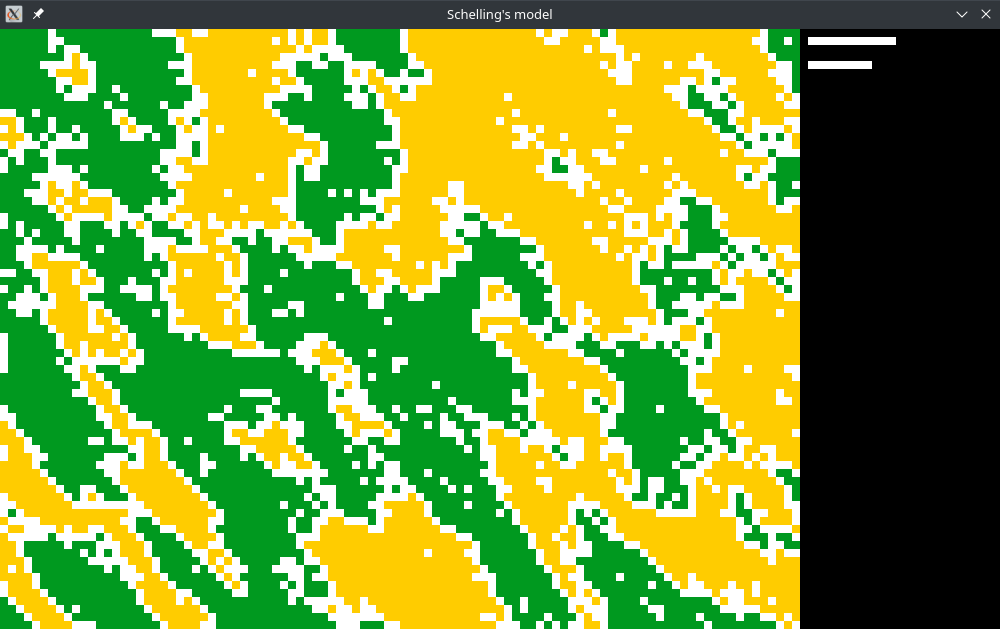
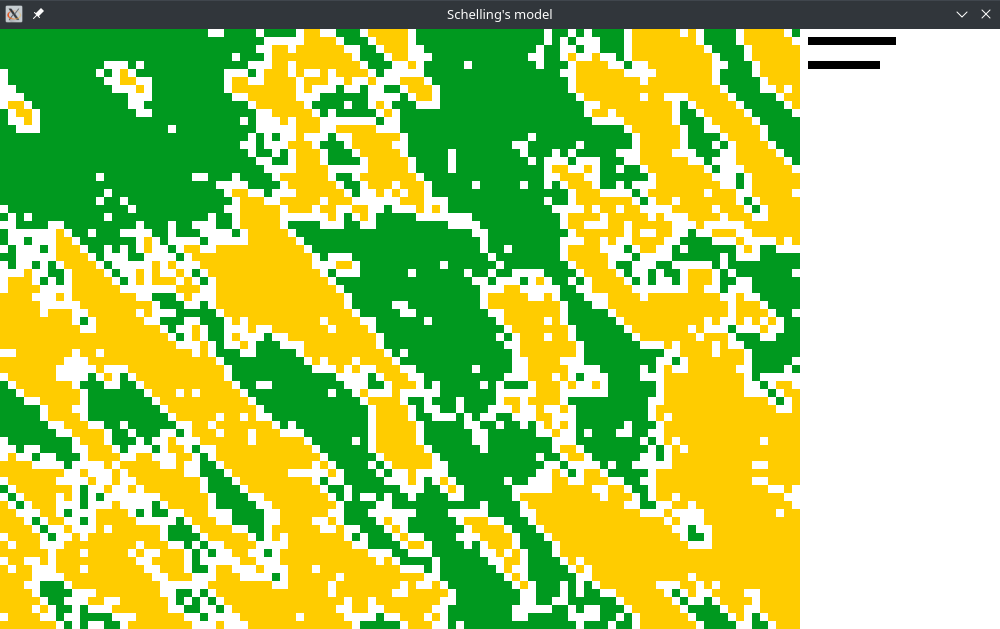
look updated & rendering optimized

diff --git a/src/main.rs b/src/main.rs
@@ -87,43 +87,50 @@ fn main() {
             continue;
         }
         //cleaning screen
-        canvas.set_draw_color(Color::RGB(0, 0, 0));
+        canvas.set_draw_color(Color::RGB(255, 255, 255));
         canvas.clear();
+
         //drawing field
+        let mut green_points: Vec<Point> = Vec::new();
+        let mut yellow_points: Vec<Point> = Vec::new();
+
         for x in 0..field.field.len() {
             for y in 0..field.field[0].len() {
+                let point = Point::new(x as i32, y as i32);
                 match field.field[x][y] {
-                    None => {
-                        canvas.set_draw_color(Color::RGB(255, 255, 255));
-                    }
+                    None => {}
                     Some(Agent {
                         colour: Colour::Green,
                         ..
                     }) => {
-                        canvas.set_draw_color(Color::RGB(0, 153, 31));
+                        green_points.push(point);
                     }
                     Some(Agent {
                         colour: Colour::Yellow,
                         ..
                     }) => {
-                        canvas.set_draw_color(Color::RGB(255, 204, 0));
+                        yellow_points.push(point);
                     }
                     _ => {
                         panic!("error");
                     }
                 }
-                let point = Point::new(x as i32, y as i32);
-                canvas.draw_point(point);
             }
         }
 
+        canvas.set_draw_color(Color::RGB(0, 153, 31));
+        canvas.draw_points(green_points.as_slice());
+
+        canvas.set_draw_color(Color::RGB(255, 204, 0));
+        canvas.draw_points(yellow_points.as_slice());
+
+        canvas.set_draw_color(Color::RGB(0, 0, 0));
         // drawing speed
-        canvas.set_draw_color(Color::RGB(255, 255, 255));
         for i in 0..(1100 - speed) / 100 {
             canvas.draw_point(Point::new(i as i32 + 101, 1));
         }
+
         //drawing wanted_happiness
-        canvas.set_draw_color(Color::RGB(255, 255, 255));
         for i in 0..(wanted_happiness * 10 as f32 + 1.0) as i32 {
             canvas.draw_point(Point::new(i + 101, 4));
         }
